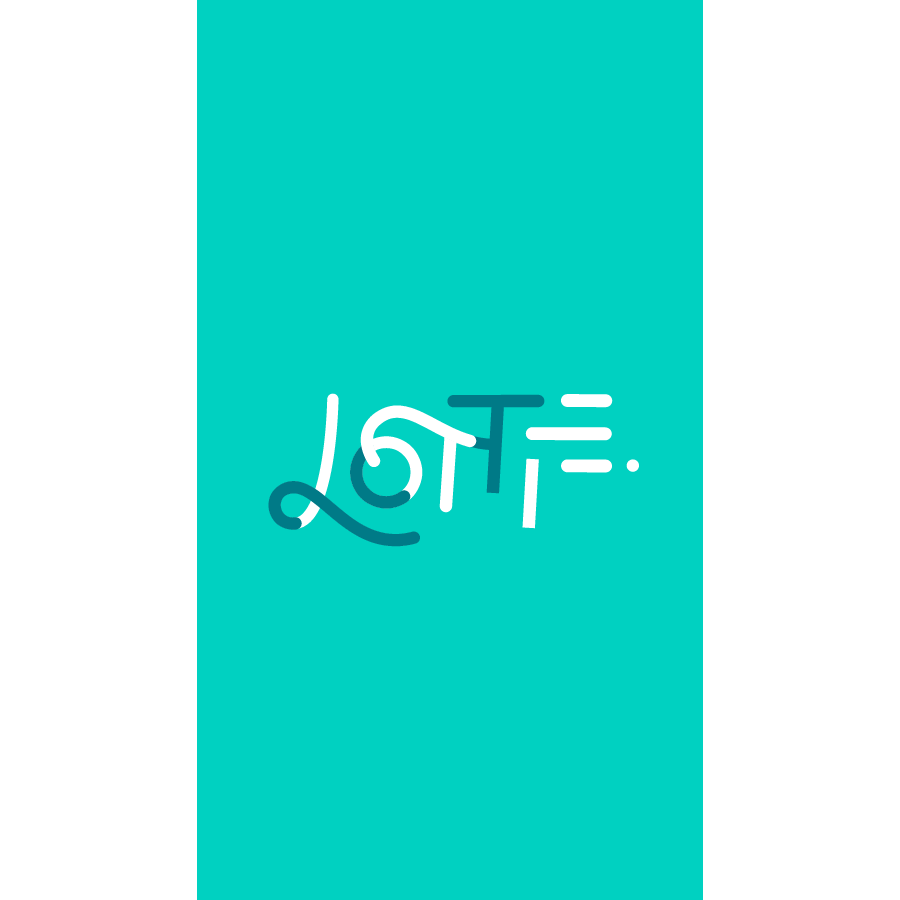
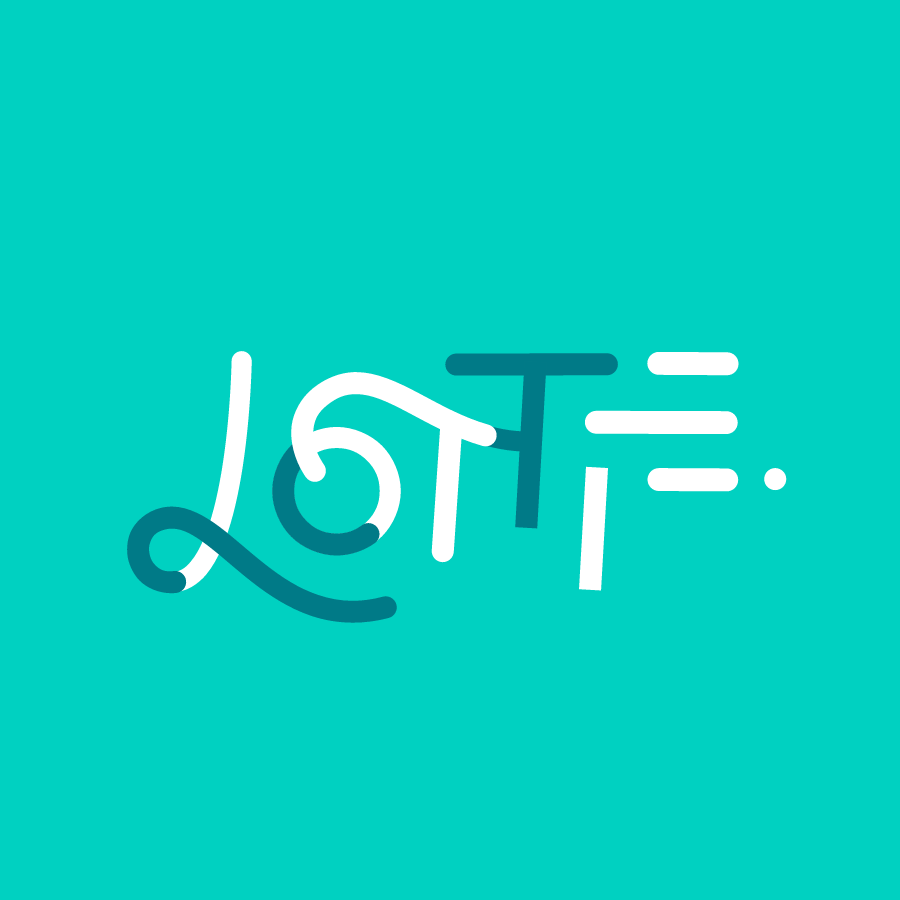
Fixed scale type on a test

diff --git a/LottieSample/src/androidTest/java/com/airbnb/lottie/LottieTest.java b/LottieSample/src/androidTest/java/com/airbnb/lottie/LottieTest.java
@@ -121,7 +121,7 @@ public class LottieTest {
 
     params = new FrameLayout.LayoutParams(dpToPx(300), dpToPx(300));
     TestRobot.testAnimationView(context, composition, "300x300 centerCrop @2x", params,
-        ImageView.ScaleType.CENTER_INSIDE, 2f);
+        ImageView.ScaleType.CENTER_CROP, 2f);
 
     params = new FrameLayout.LayoutParams(dpToPx(300), dpToPx(300));
     TestRobot.testAnimationView(context, composition, "300x300 @2x", params,
